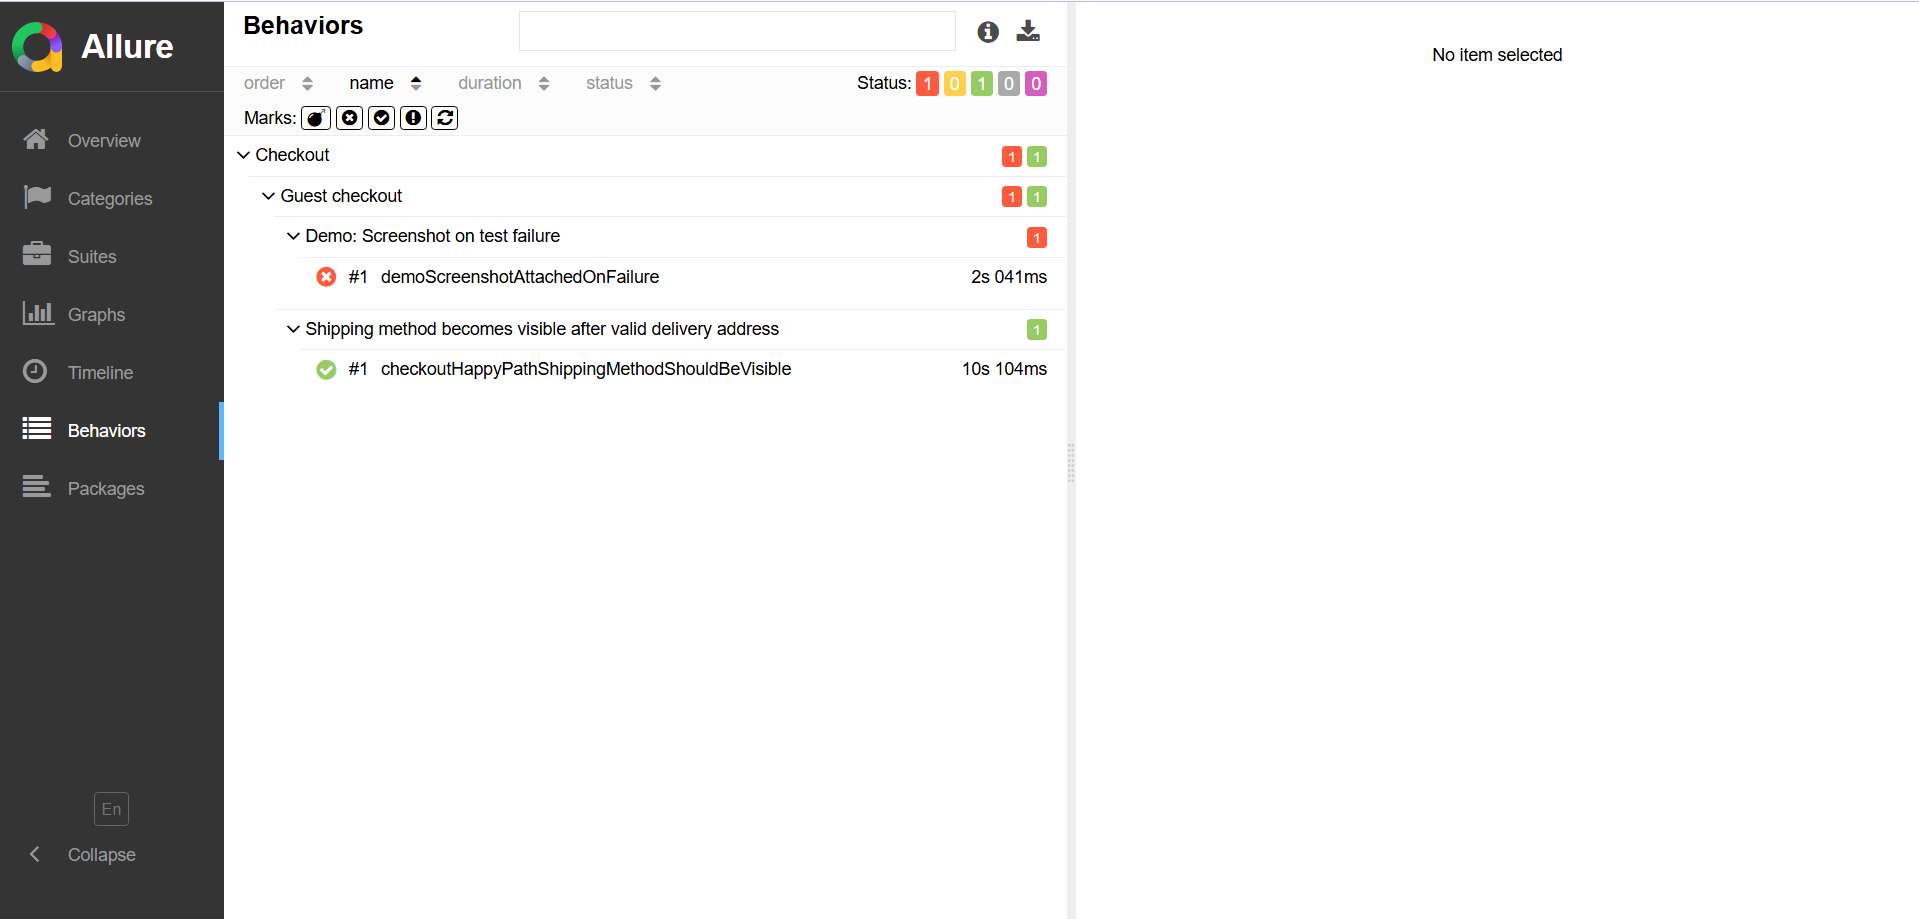
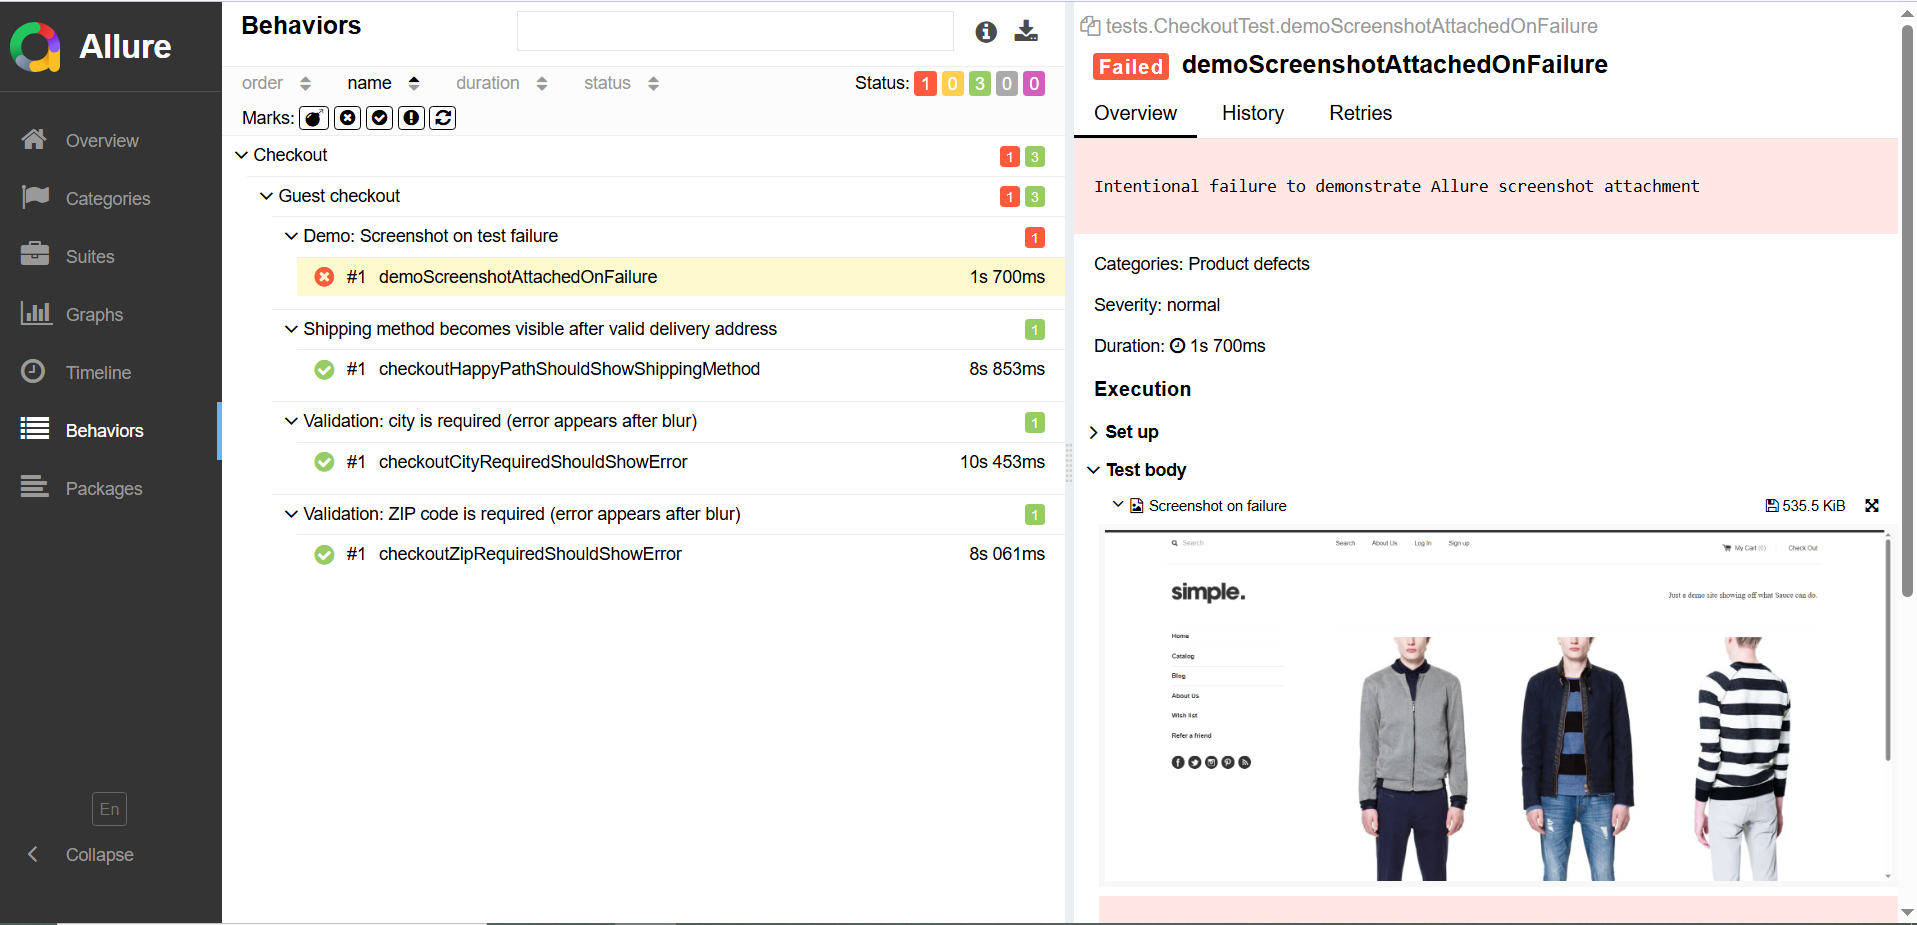
Add validation tests and waitForShippingMethodSectionVisible method

diff --git a/src/test/java/pages/CheckoutPage.java b/src/test/java/pages/CheckoutPage.java
@@ -1,8 +1,8 @@
 package pages;
 
 import dto.DeliveryAddress;
-import org.openqa.selenium.By;
-import org.openqa.selenium.WebDriver;
+import org.openqa.selenium.*;
+import org.openqa.selenium.interactions.Actions;
 import org.openqa.selenium.support.ui.ExpectedConditions;
 import org.openqa.selenium.support.ui.Select;
 import org.openqa.selenium.support.ui.WebDriverWait;
@@ -15,12 +15,13 @@ public class CheckoutPage {
     private final By firstName = By.cssSelector("input[name='firstName']:not([hidden]):not([aria-hidden='true'])");
     private final By lastName = By.cssSelector("input[name='lastName']:not([hidden]):not([aria-hidden='true'])");
     private final By zip = By.cssSelector("input[name='postalCode']:not([hidden]):not([aria-hidden='true'])");
-    private final By payNowBtn = By.id("checkout-pay-button");
     private final By addressInput = By.cssSelector("input[name='address1']:not([hidden]):not([aria-hidden='true'])");
     private final By city = By.cssSelector("input[name='city']:not([hidden]):not([aria-hidden='true'])");
     private final By state = By.cssSelector("select[name='zone']:not([hidden]):not([aria-hidden='true'])");
     private final By shippingMethodSection = By.xpath(
             "//fieldset[@id='shipping_methods']//p[normalize-space()='International Shipping']");
+    private final By cityError = By.id("error-for-TextField4");
+    private final By zipError = By.id("error-for-TextField5");
 
     public CheckoutPage(WebDriver driver) {
         this.driver = driver;
@@ -40,7 +41,44 @@ public class CheckoutPage {
     }
 
     public boolean isShippingMethodSectionVisible() {
-        WebDriverWait wait = new WebDriverWait(driver, Duration.ofSeconds(10));
-        return wait.until(ExpectedConditions.visibilityOfElementLocated(shippingMethodSection)).isDisplayed();
+        return !driver.findElements(shippingMethodSection).isEmpty() && driver.findElement(shippingMethodSection)
+                .isDisplayed();
+    }
+
+    public boolean waitForShippingMethodSectionVisible(Duration timeout) {
+        try {
+            return new WebDriverWait(driver, timeout).until(d -> isShippingMethodSectionVisible());
+        } catch (TimeoutException e) {
+            return false;
+        }
+    }
+
+    public CheckoutPage clearCity() {
+        WebElement cityEl = driver.findElement(city);
+        cityEl.click();
+        cityEl.sendKeys(Keys.chord(Keys.CONTROL, "a"));
+        cityEl.sendKeys(Keys.BACK_SPACE);
+        return this;
+    }
+
+    public CheckoutPage clearZip() {
+        WebElement zipEl = driver.findElement(zip);
+        zipEl.click();
+        zipEl.sendKeys(Keys.chord(Keys.CONTROL, "a"));
+        zipEl.sendKeys(Keys.BACK_SPACE);
+        return this;
+    }
+
+    public CheckoutPage triggerBlur() {
+        new Actions(driver).sendKeys(Keys.TAB).perform();
+        return this;
+    }
+
+    public boolean isCityErrorVisible() {
+        return !driver.findElements(cityError).isEmpty() && driver.findElement(cityError).isDisplayed();
+    }
+
+    public boolean isZipErrorVisible() {
+        return !driver.findElements(zipError).isEmpty() && driver.findElement(zipError).isDisplayed();
     }
 }

diff --git a/src/test/java/tests/CheckoutTest.java b/src/test/java/tests/CheckoutTest.java
@@ -11,34 +11,59 @@ import pages.CheckoutPage;
 import pages.HomePage;
 import utils.ConfigReader;
 
+import java.time.Duration;
+
 @Epic("Checkout")
 @Feature("Guest checkout")
 public class CheckoutTest extends BaseTest {
-    @Story("Shipping method becomes visible after valid delivery address")
-    @Test
-    public void checkoutHappyPathShippingMethodShouldBeVisible() {
-        String item = "Black heels";
+    private static final String FIRST_NAME = "Roman";
+    private static final String LAST_NAME = "Nikolaev";
+    private static final String ITEM = "Black heels";
+    private static final DeliveryAddress VALID_ADDRESS = new DeliveryAddress(
+            "Linda Vista",
+            "San Diego",
+            "California",
+            "92111"
+    );
 
-        DeliveryAddress address = new DeliveryAddress(
-                "Linda Vista",
-                "San Diego",
-                "California",
-                "92111"
-        );
-
-        CheckoutPage checkout = new HomePage(driver)
+    private CheckoutPage openCheckoutWithItemAndValidAddress() {
+        return new HomePage(driver)
                 .clickCatalog()
-                .openProduct(item)
+                .openProduct(ITEM)
                 .addToCart()
                 .clickCheckoutOnProductDetailsPage()
                 .clickCheckoutOnCartPage()
-                .fillInfo("Roman", "Nikolaev", address);
+                .fillInfo(FIRST_NAME, LAST_NAME, VALID_ADDRESS);
+    }
 
-        Assert.assertTrue(checkout.isShippingMethodSectionVisible());
+    @Story("Shipping method becomes visible after valid delivery address")
+    @Test
+    public void checkoutHappyPathShouldShowShippingMethod() {
+        CheckoutPage checkout = openCheckoutWithItemAndValidAddress();
+        Assert.assertTrue(checkout.waitForShippingMethodSectionVisible(Duration.ofSeconds(10)));
+    }
+
+    @Story("Validation: city is required (error appears after blur)")
+    @Test
+    public void checkoutCityRequiredShouldShowError() {
+        CheckoutPage checkout = openCheckoutWithItemAndValidAddress();
+        checkout.clearCity().triggerBlur();
+        Assert.assertTrue(checkout.isCityErrorVisible(),
+                "Expected 'Enter a city' error after clearing City");
+    }
+
+    @Story("Validation: ZIP code is required (error appears after blur)")
+    @Test
+    public void checkoutZipRequiredShouldShowError() {
+        CheckoutPage checkout = openCheckoutWithItemAndValidAddress();
+        checkout.clearZip().triggerBlur();
+        Assert.assertTrue(checkout.isZipErrorVisible() && !checkout.isShippingMethodSectionVisible(),
+                "Expected ZIP validation error and shipping method to be unavailable when ZIP is empty");
+
     }
 
     @Story("Demo: Screenshot on test failure")
-    @Test
+    @Test(groups="demo")
     public void demoScreenshotAttachedOnFailure() {
         // Intentional failure for reporting demo
         driver.get(ConfigReader.get("baseUrl"));

diff --git a/src/test/java/pages/CatalogPage.java b/src/test/java/pages/CatalogPage.java
@@ -11,8 +11,6 @@ import java.time.Duration;
 public class CatalogPage {
     private final WebDriver driver;
 
-    private final By title = By.cssSelector("title");
-
     public CatalogPage(WebDriver driver) {
         this.driver = driver;
     }
